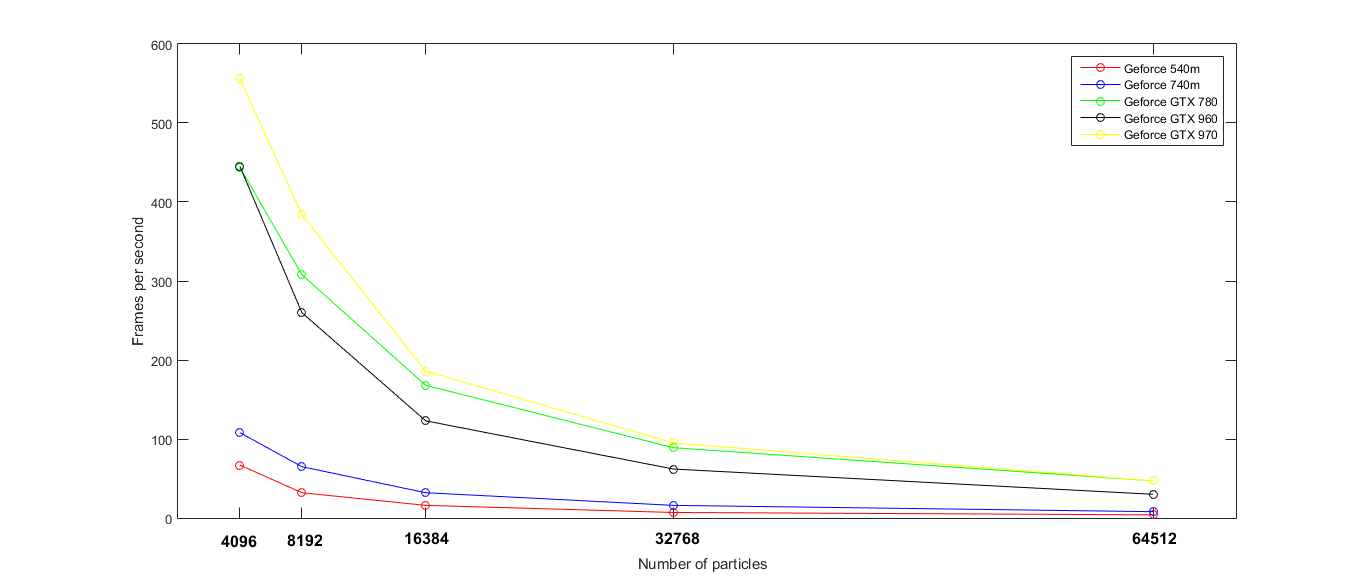
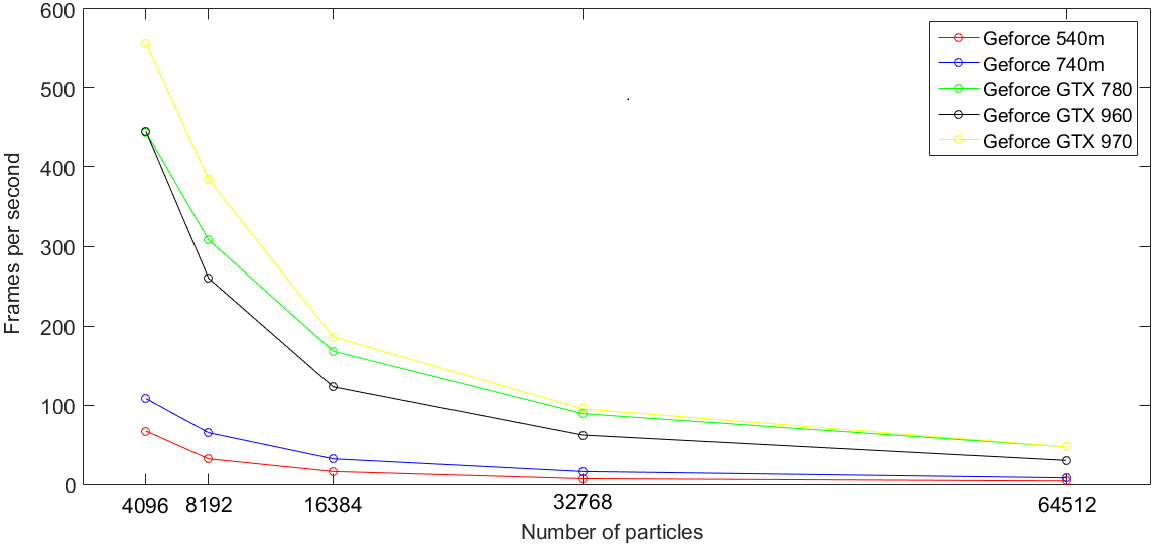
graphie

diff --git a/tex/result.tex b/tex/result.tex
@@ -70,7 +70,7 @@ respect to the amount of particles.
 
 \begin{figure}[H]
   \centering
-  \includegraphics[width=1.1\textwidth]{img/graph.png}
+  \includegraphics[width=1\textwidth]{img/graph.png}
   \caption{Performance (fps) when varying the number of particles.}
   \label{fig:graphen}
 \end{figure}
